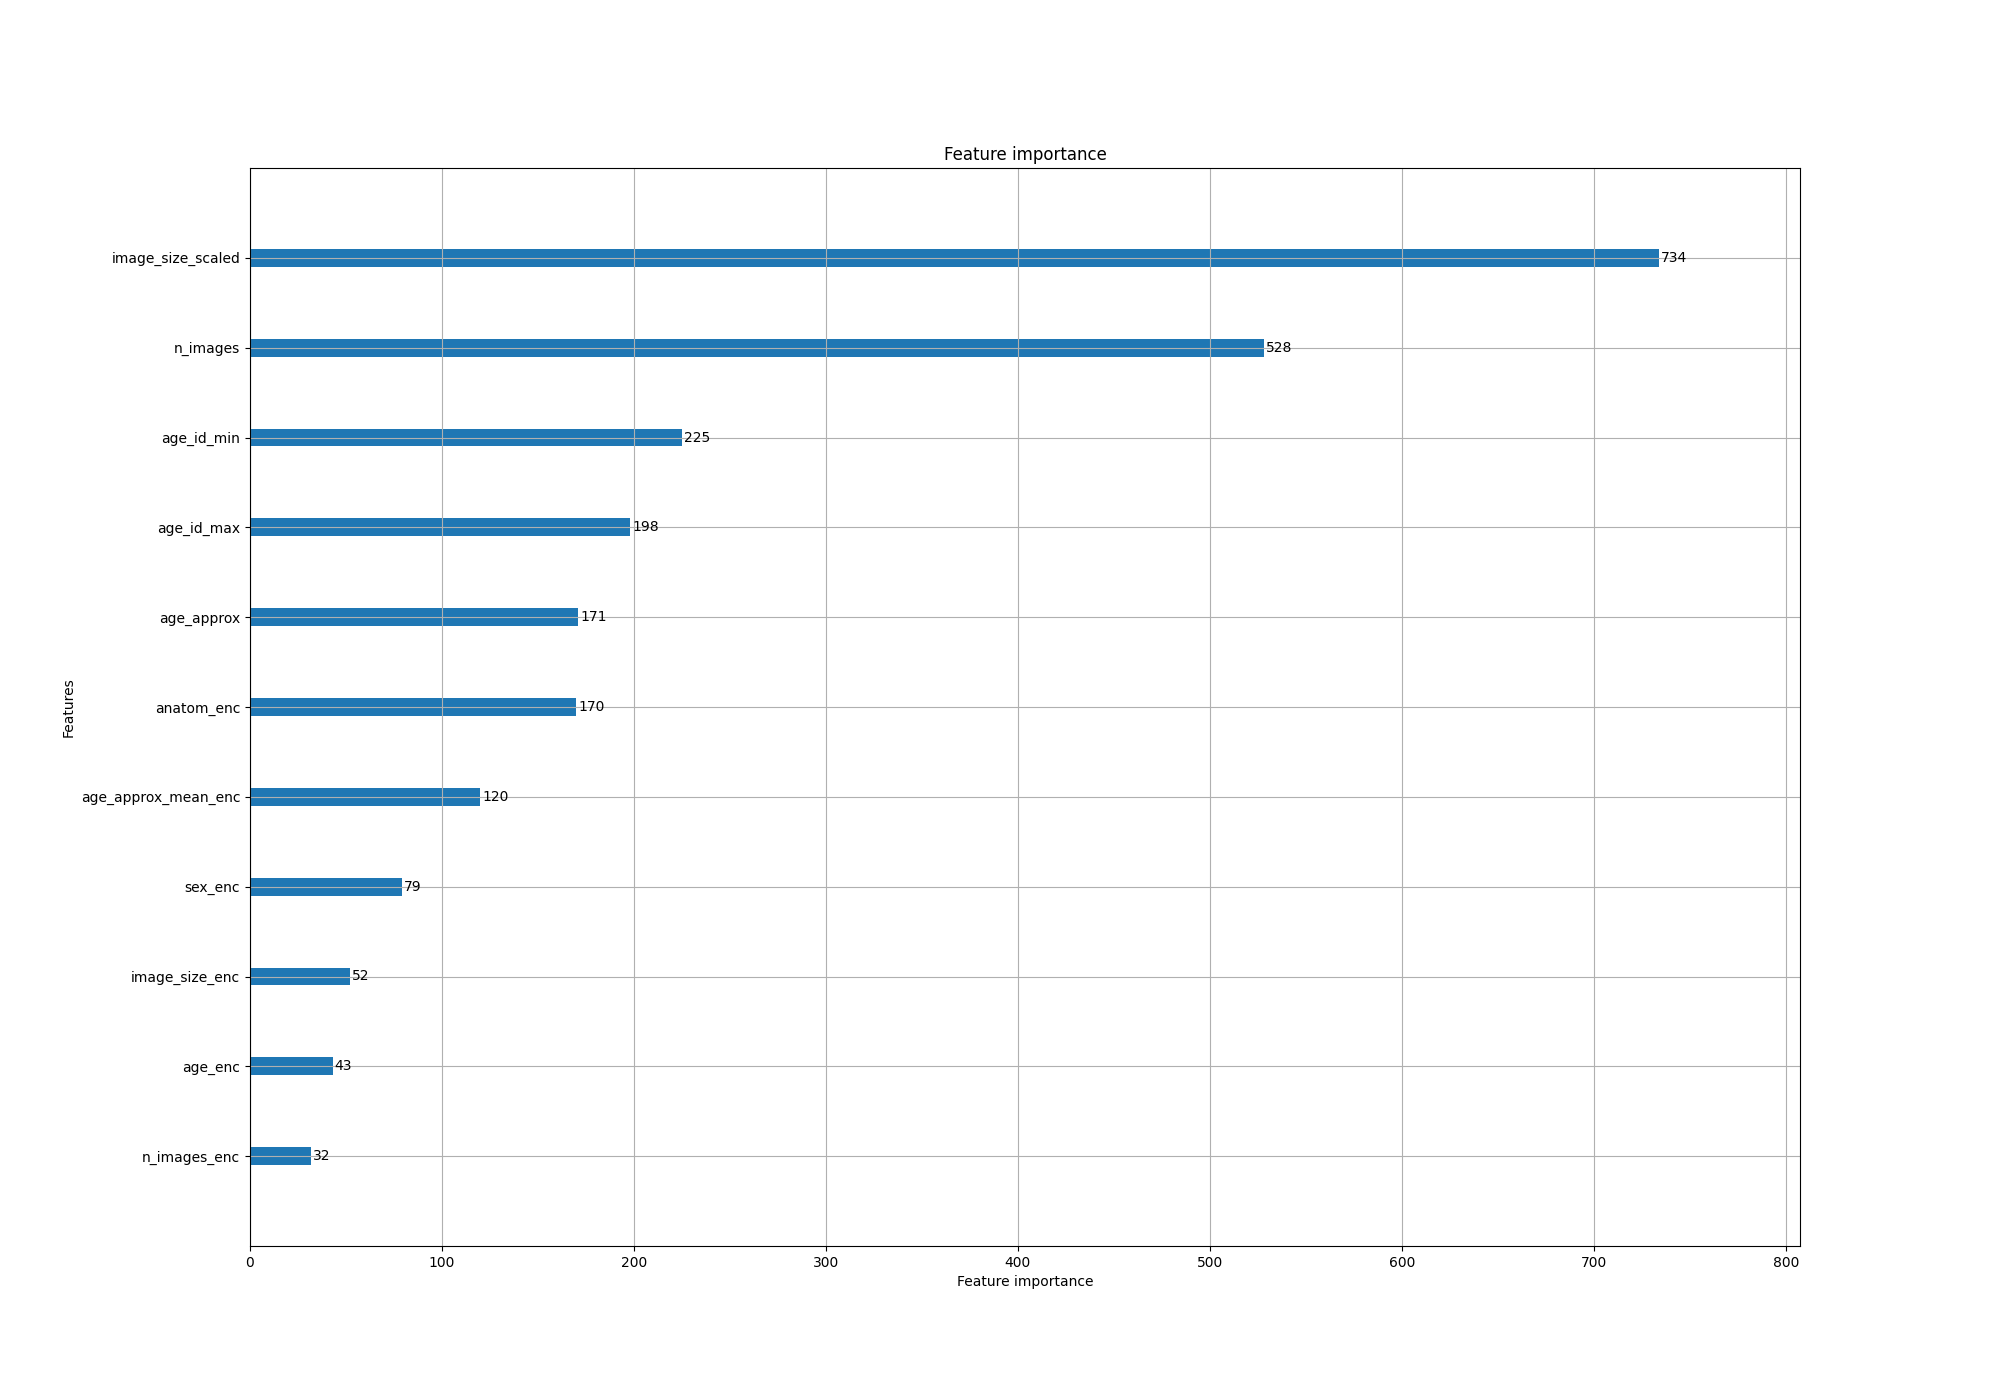
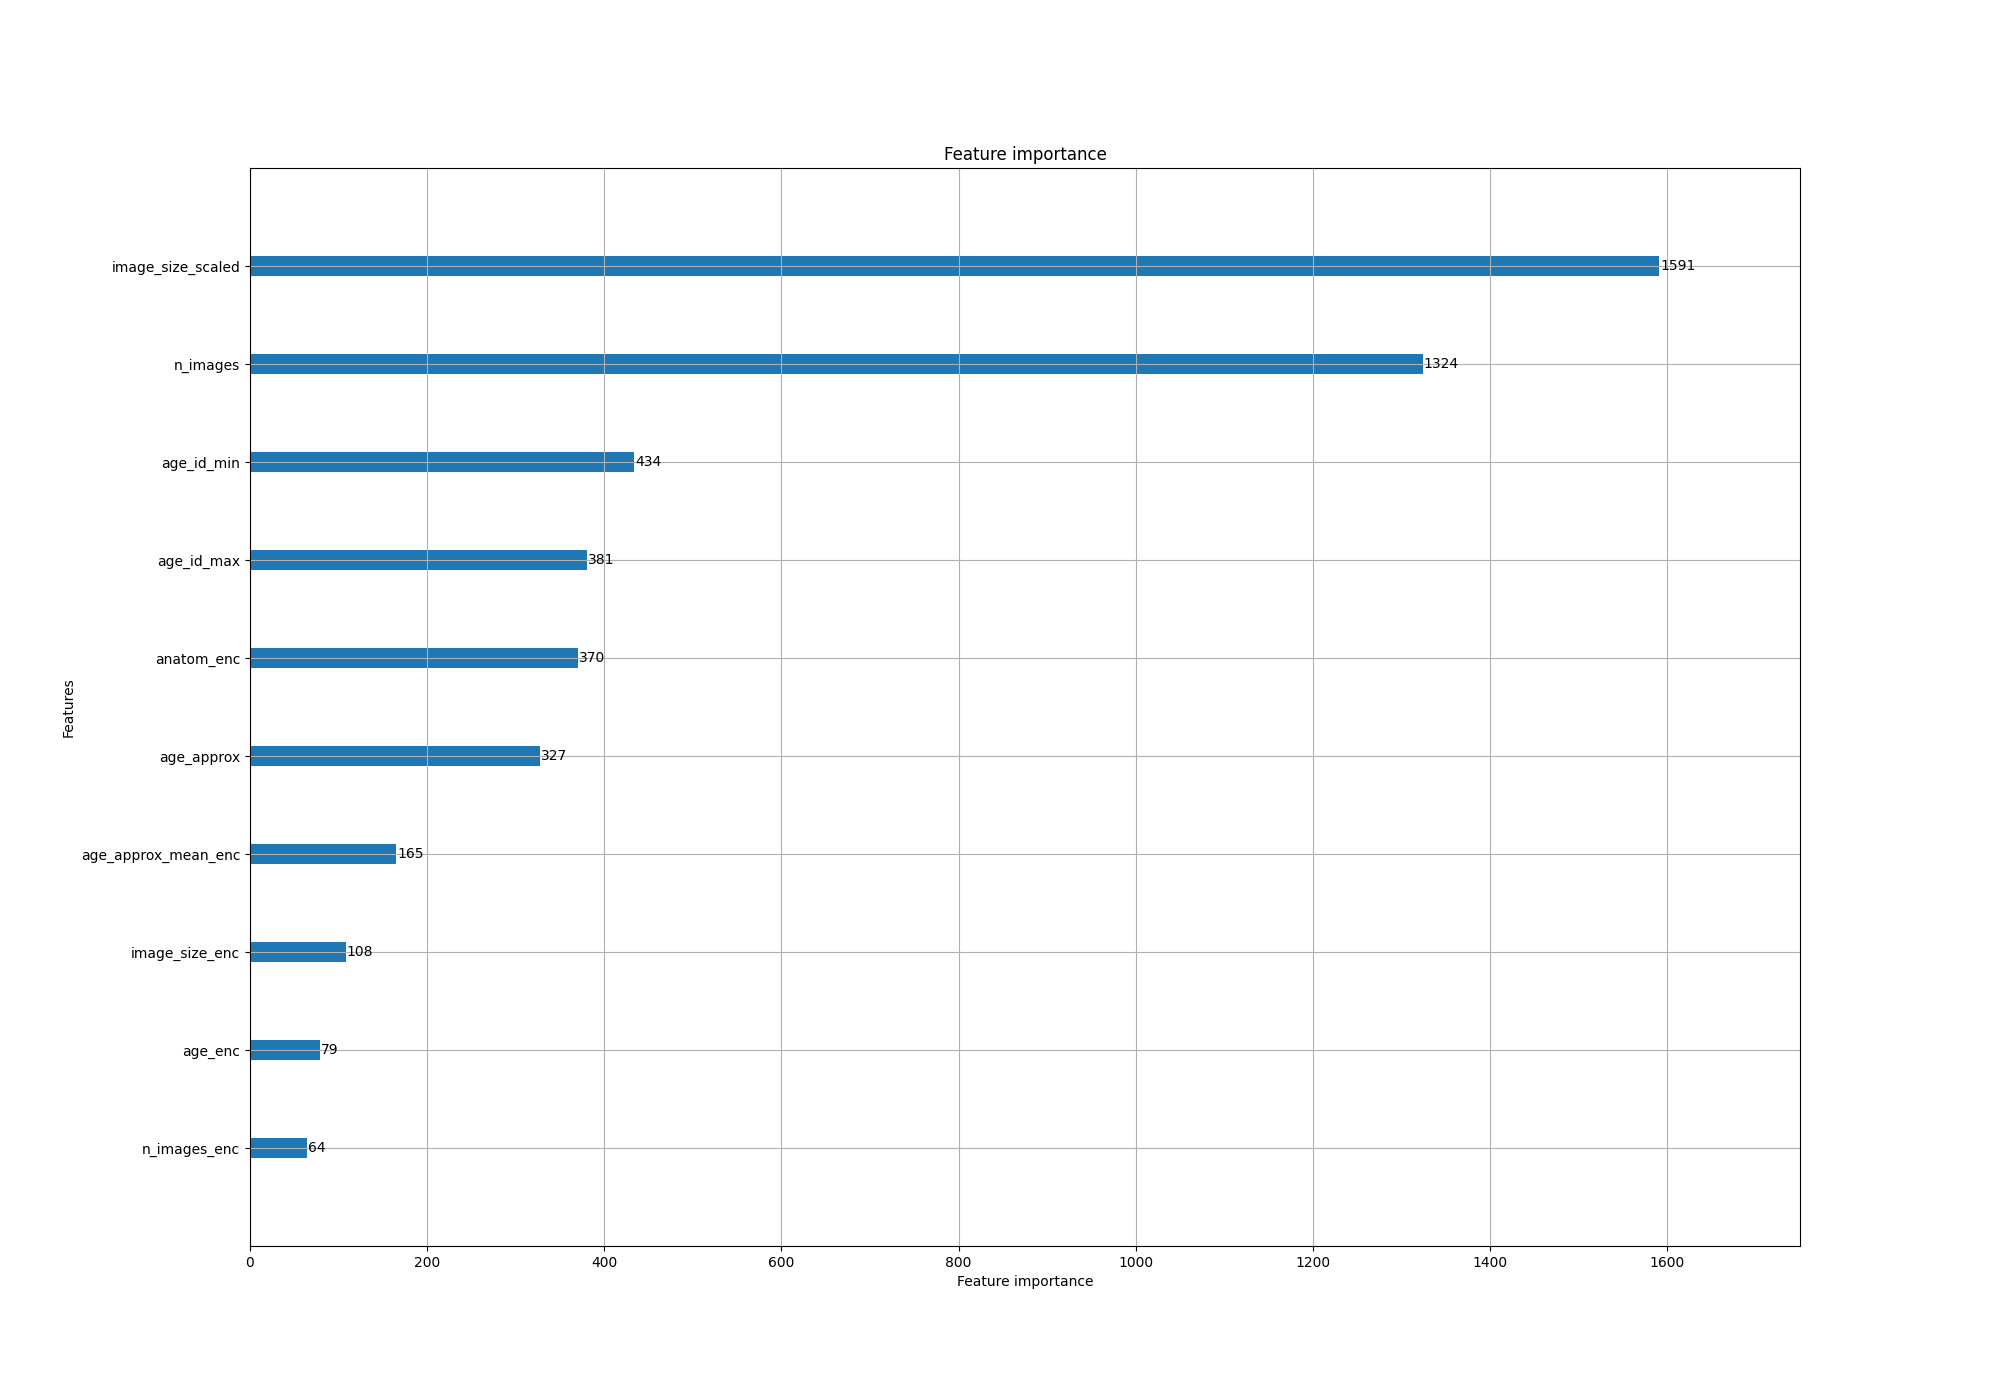
Update!

diff --git a/src/ml-project/train.py b/src/ml-project/train.py
@@ -6,7 +6,7 @@ import numpy as np
 import pandas as pd
 import seaborn as sns
 from sklearn.decomposition import PCA
-from sklearn.metrics import roc_auc_score
+from sklearn.metrics import roc_auc_score, roc_curve
 from sklearn.model_selection import train_test_split
 from sklearn.preprocessing import StandardScaler
 
@@ -58,18 +58,35 @@ def _main(args: argparse.Namespace):
 
     y_preds = 0.8 * eff_preds + 0.2 * lgb_preds
 
-    X_test_scale = StandardScaler().fit_transform(X_test.values)
-    pca = PCA(n_components=2)
-    pca.fit(X_test_scale)
-    pca_test = pca.transform(X_test_scale)
-    pca_columns = ["pca_component1", "pca_component2"]
-    pca_data = pd.DataFrame(pca_test, columns=pca_columns)
-    pca_data["target"] = y_test
-    pca_data["preds"] = np.where(y_preds > 0.2, 1, 0)
+    # X_test_scale = StandardScaler().fit_transform(X_test.values)
+    # pca = PCA(n_components=2)
+    # pca.fit(X_test_scale)
+    # pca_test = pca.transform(X_test_scale)
+    # pca_columns = ["pca_component1", "pca_component2"]
+    # pca_data = pd.DataFrame(pca_test, columns=pca_columns)
+    # pca_data["target"] = y_test
+    # pca_data["preds"] = np.where(y_preds > 0.2, 1, 0)
 
-    plt.figure(figsize=(15, 15))
-    sns.scatterplot(x="pca_component1", y="pca_component2", hue="target", data=pca_data)
-    plt.savefig("../../graph/pca_figure.jpg")
+    # plt.figure(figsize=(15, 15))
+    # sns.scatterplot(x="pca_component1", y="pca_component2", hue="target", data=pca_data)
+    # plt.savefig("../../graph/pca_figure.jpg")
+    # plt.close()
+    ns_probs = [0 for _ in range(len(y_test))]
+    ns_fpr, ns_tpr, _ = roc_curve(y_test, ns_probs)
+    lgb_fpr, lgb_tpr, _ = roc_curve(y_test, lgb_preds)
+    # plot the roc curve for the model
+    plt.plot(ns_fpr, ns_tpr, linestyle="--", label="No Skill")
+    plt.plot(lgb_fpr, lgb_tpr, marker=".", label="LGBM")
+
+    # axis labels
+    plt.xlabel("False Positive Rate")
+    plt.ylabel("True Positive Rate")
+
+    # show the legend
+    plt.legend()
+
+    # show the plot
+    plt.savefig("../../graph/lgbm_ROC.png")
     plt.close()
 
     print("#### Scores ####")

diff --git a/notebook/cv_save.py b/notebook/cv_save.py
@@ -1,0 +1,57 @@
+# %%
+# Regular Imports
+import gc
+import os
+import warnings
+
+import cv2
+import matplotlib.image as mpimg
+import matplotlib.pyplot as plt
+import numpy as np
+import pandas as pd
+import pydicom  # for DICOM images
+import seaborn as sns
+from IPython.display import display_html
+from PIL import Image
+from skimage.transform import resize
+
+# SKLearn
+from sklearn.preprocessing import LabelEncoder, OneHotEncoder
+
+# from tabulate import tabulate
+
+warnings.filterwarnings("ignore")
+
+# Set Color Palettes for the notebook
+colors_nude = ["#e0798c", "#65365a", "#da8886", "#cfc4c4", "#dfd7ca"]
+sns.palplot(sns.color_palette(colors_nude))
+
+# Set Style
+sns.set_style("whitegrid")
+sns.despine(left=True, bottom=True)
+# %%
+directory = "../input/siim-isic-melanoma-classification/"
+train_df = pd.read_csv(directory + "train.csv")
+path_train = directory + "jpeg/train/" + train_df["image_name"] + ".jpg"
+train_df["path_jpeg"] = path_train
+train_df.head()
+
+# %%
+image_list = train_df["path_jpeg"].values.tolist()
+image_name = train_df["image_name"].values.tolist()
+
+# %%
+for name, path in zip(image_name, image_list):
+    image = cv2.imread(path)
+    image = cv2.cvtColor(image, cv2.COLOR_RGB2BGR)
+
+    val = 50
+    array = np.full(image.shape, (val, val, val), dtype=np.uint8)
+    image = cv2.add(image, array)
+
+    # image = cv2.addWeighted(image, 4, cv2.GaussianBlur(image, (0,0) ,256/10), -4, 128)
+
+    p = "../res/bright/" + name + ".jpeg"
+    cv2.imwrite(p, image)
+
+# %%

diff --git a/src/ml-project/model/gbdt.py b/src/ml-project/model/gbdt.py
@@ -42,9 +42,9 @@ def stratified_kfold_lgbm(
         lgb_oof[valid_idx] = model.predict_proba(X_valid)[:, 1]
         lgb_preds += model.predict_proba(X_test)[:, 1] / n_fold
 
-    fig, ax = plt.subplots(figsize=(20, 14))
-    lgbm.plot_importance(model, ax=ax, max_num_features=len(X_test.columns))
-    plt.savefig("../../graph/lgbm_import.png")
+    # fig, ax = plt.subplots(figsize=(20, 14))
+    # lgbm.plot_importance(model, ax=ax, max_num_features=len(X_test.columns))
+    # plt.savefig("../../graph/lgbm_import.png")
     auc_score = roc_auc_score(y, lgb_oof)
     print(f"ROC-AUC valid score: {auc_score:.5f}")
 

diff --git a/src/ml-project/lgbm_optim.py b/src/ml-project/lgbm_optim.py
@@ -26,7 +26,7 @@ def _main(args: argparse.Namespace):
         "age_approx_mean_enc",
         "age_id_min",
         "age_id_max",
-        "sex_enc",
+        # "sex_enc",
         "anatom_enc",
         "n_images",
         "n_images_enc",
@@ -38,7 +38,7 @@ def _main(args: argparse.Namespace):
     y = train["target"]
 
     X_train, X_test, y_train, y_test = train_test_split(
-        X, y, test_size=0.2, random_state=42, stratify=y
+        X, y, test_size=0.2, random_state=42
     )
 
     objective = partial(

diff --git a/README.md b/README.md
@@ -41,7 +41,7 @@
     + 기대향상 수식 및 코드 구현
 
         ![CodeCogsEqn](https://user-images.githubusercontent.com/46340424/120889548-b01b9d00-c638-11eb-9208-ecca8f311832.gif)
-        
+
         ```python
         from optuna.samplers import TPESampler
         import optuna
@@ -69,7 +69,7 @@
         ```
     + 실행 방법
     ```
-    python lgbm_optim.py --fold 10 --params best_lgbm.pkl --trials 350
+    python lgbm_optim.py --fold [fold의 수] --params [params 이름].pkl --trials [반복 수]
     ```
 ## Cross-Validation 전략
 + K-Fold의 문제점
@@ -82,7 +82,7 @@
 + Efficent-Net을 활용하여 이미지 데이터 학습
 + Boosting 모델을 학습 후 앙상블 진행
 ```
-python train.py --fold 10
+python train.py --fold [fold 수]
 ```
 ## BenchMark
 ### Tabular-learning
